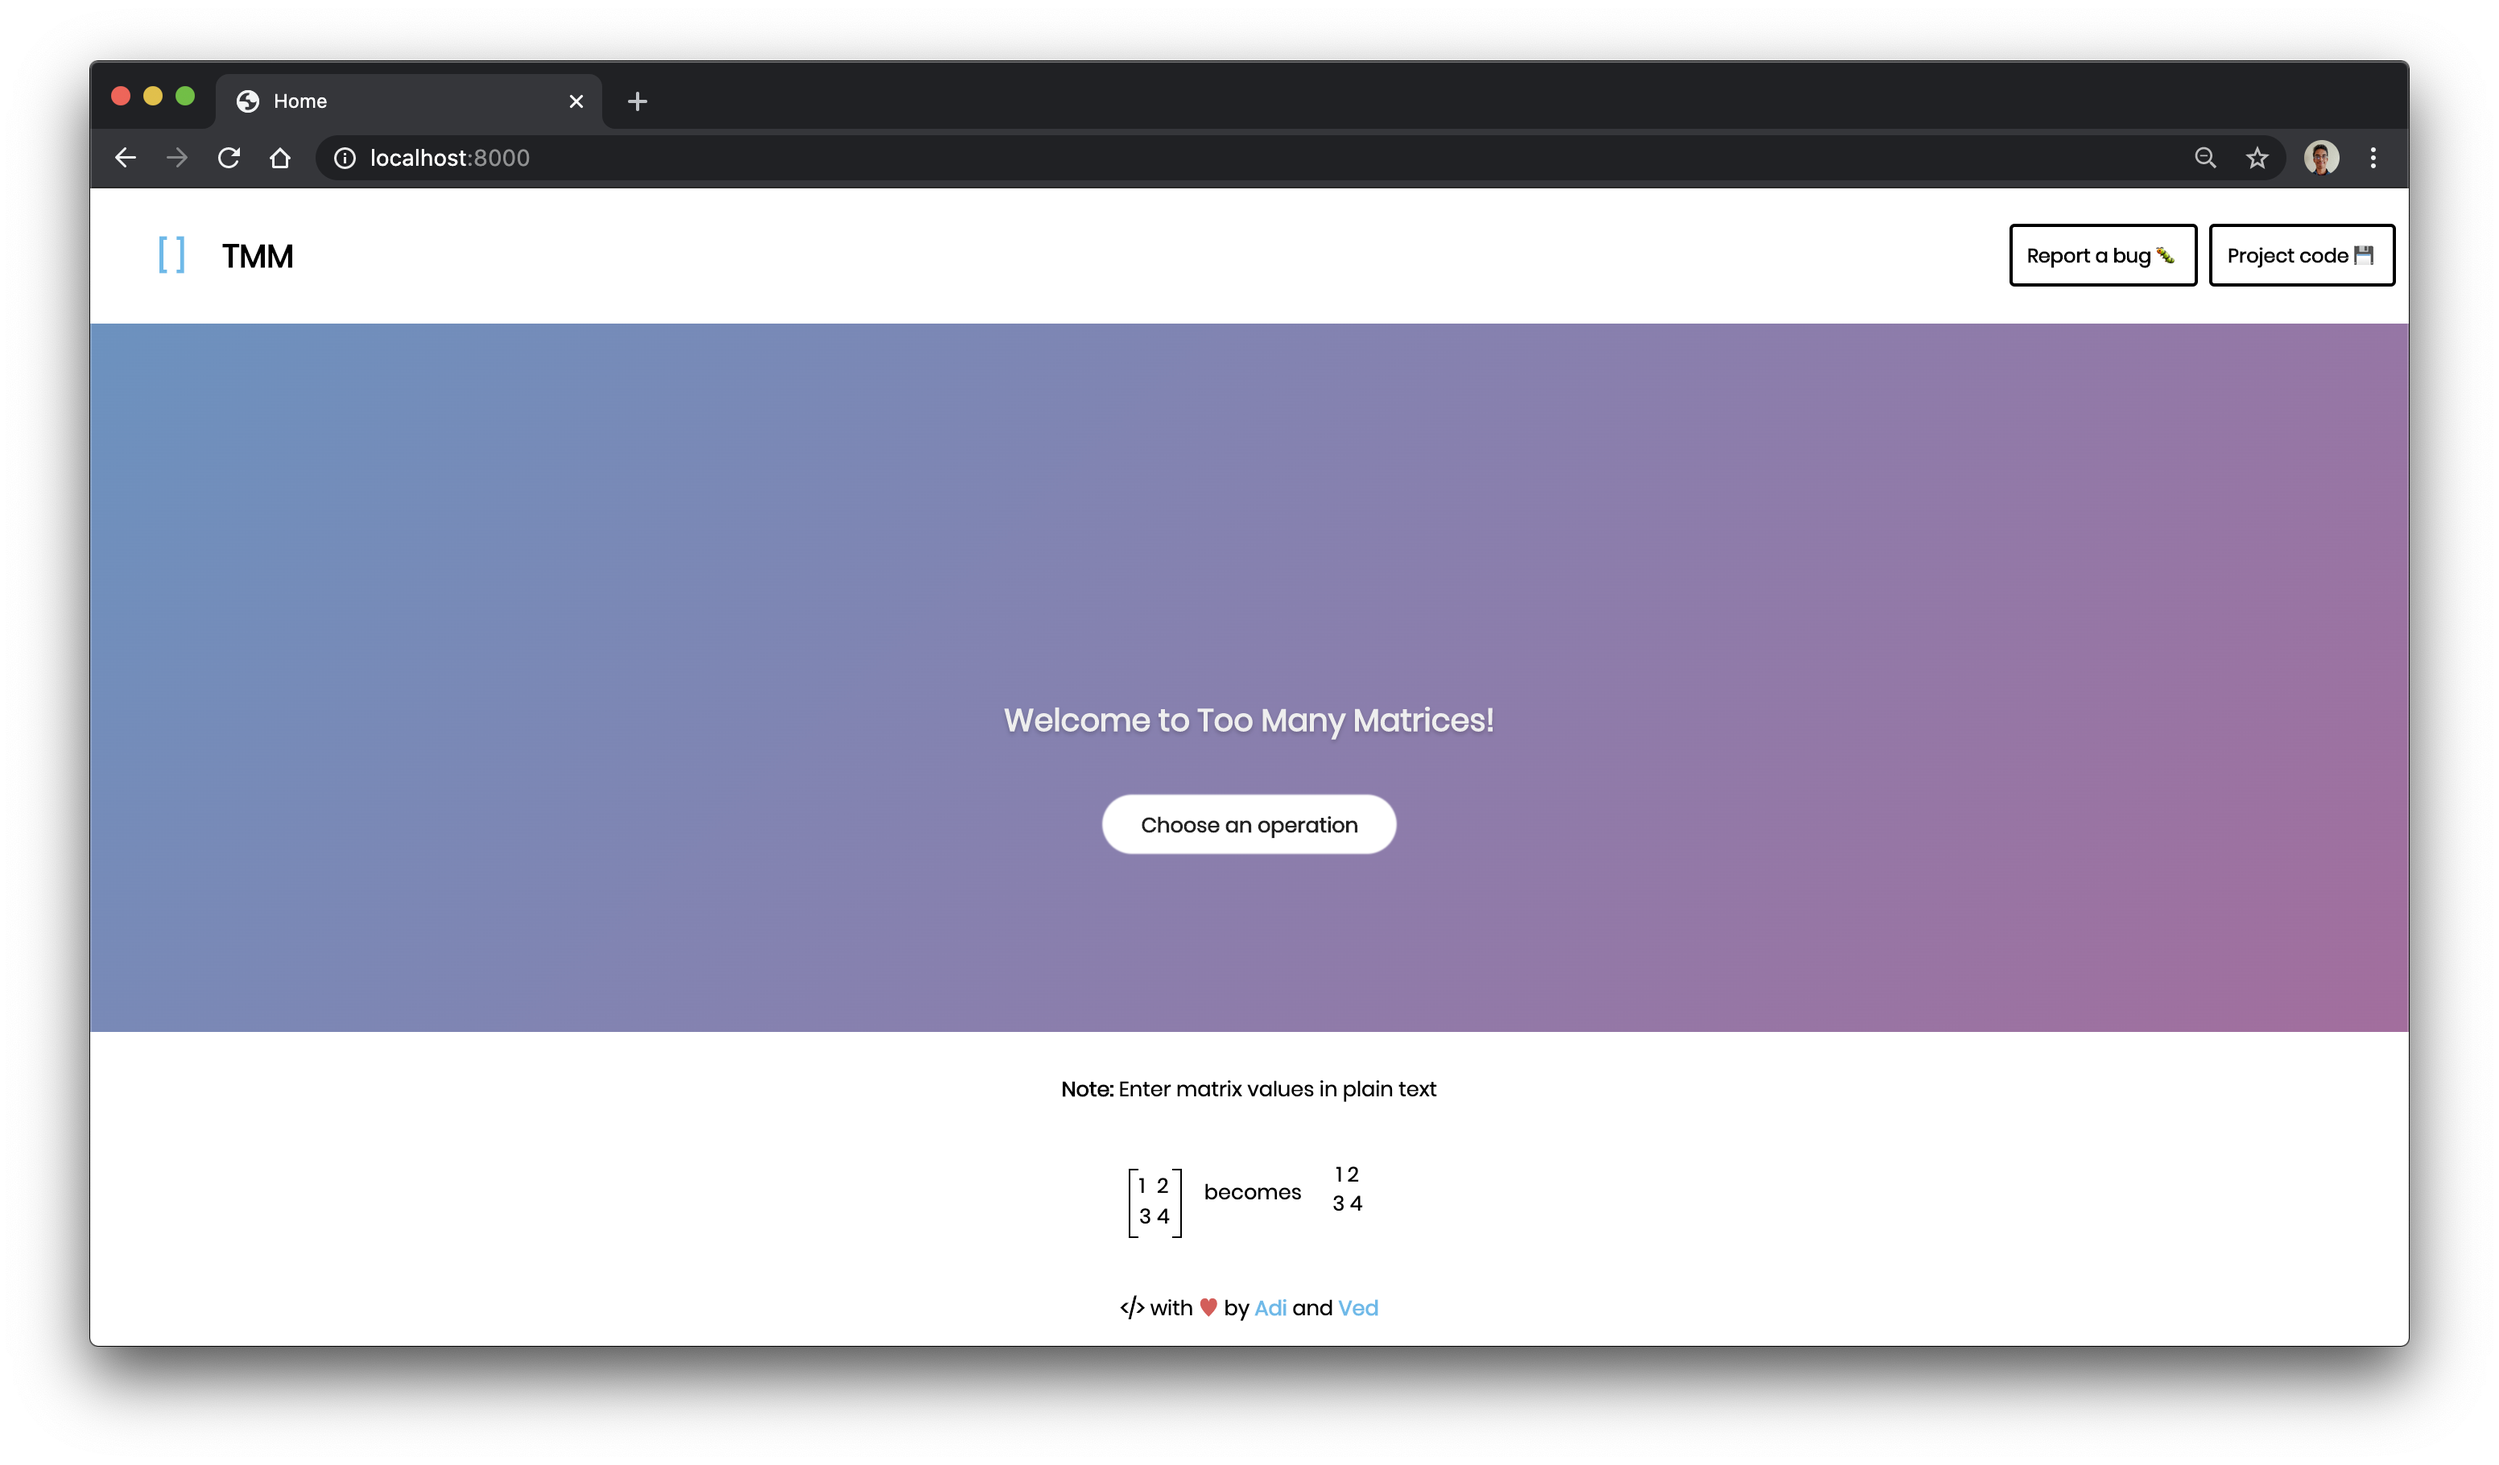
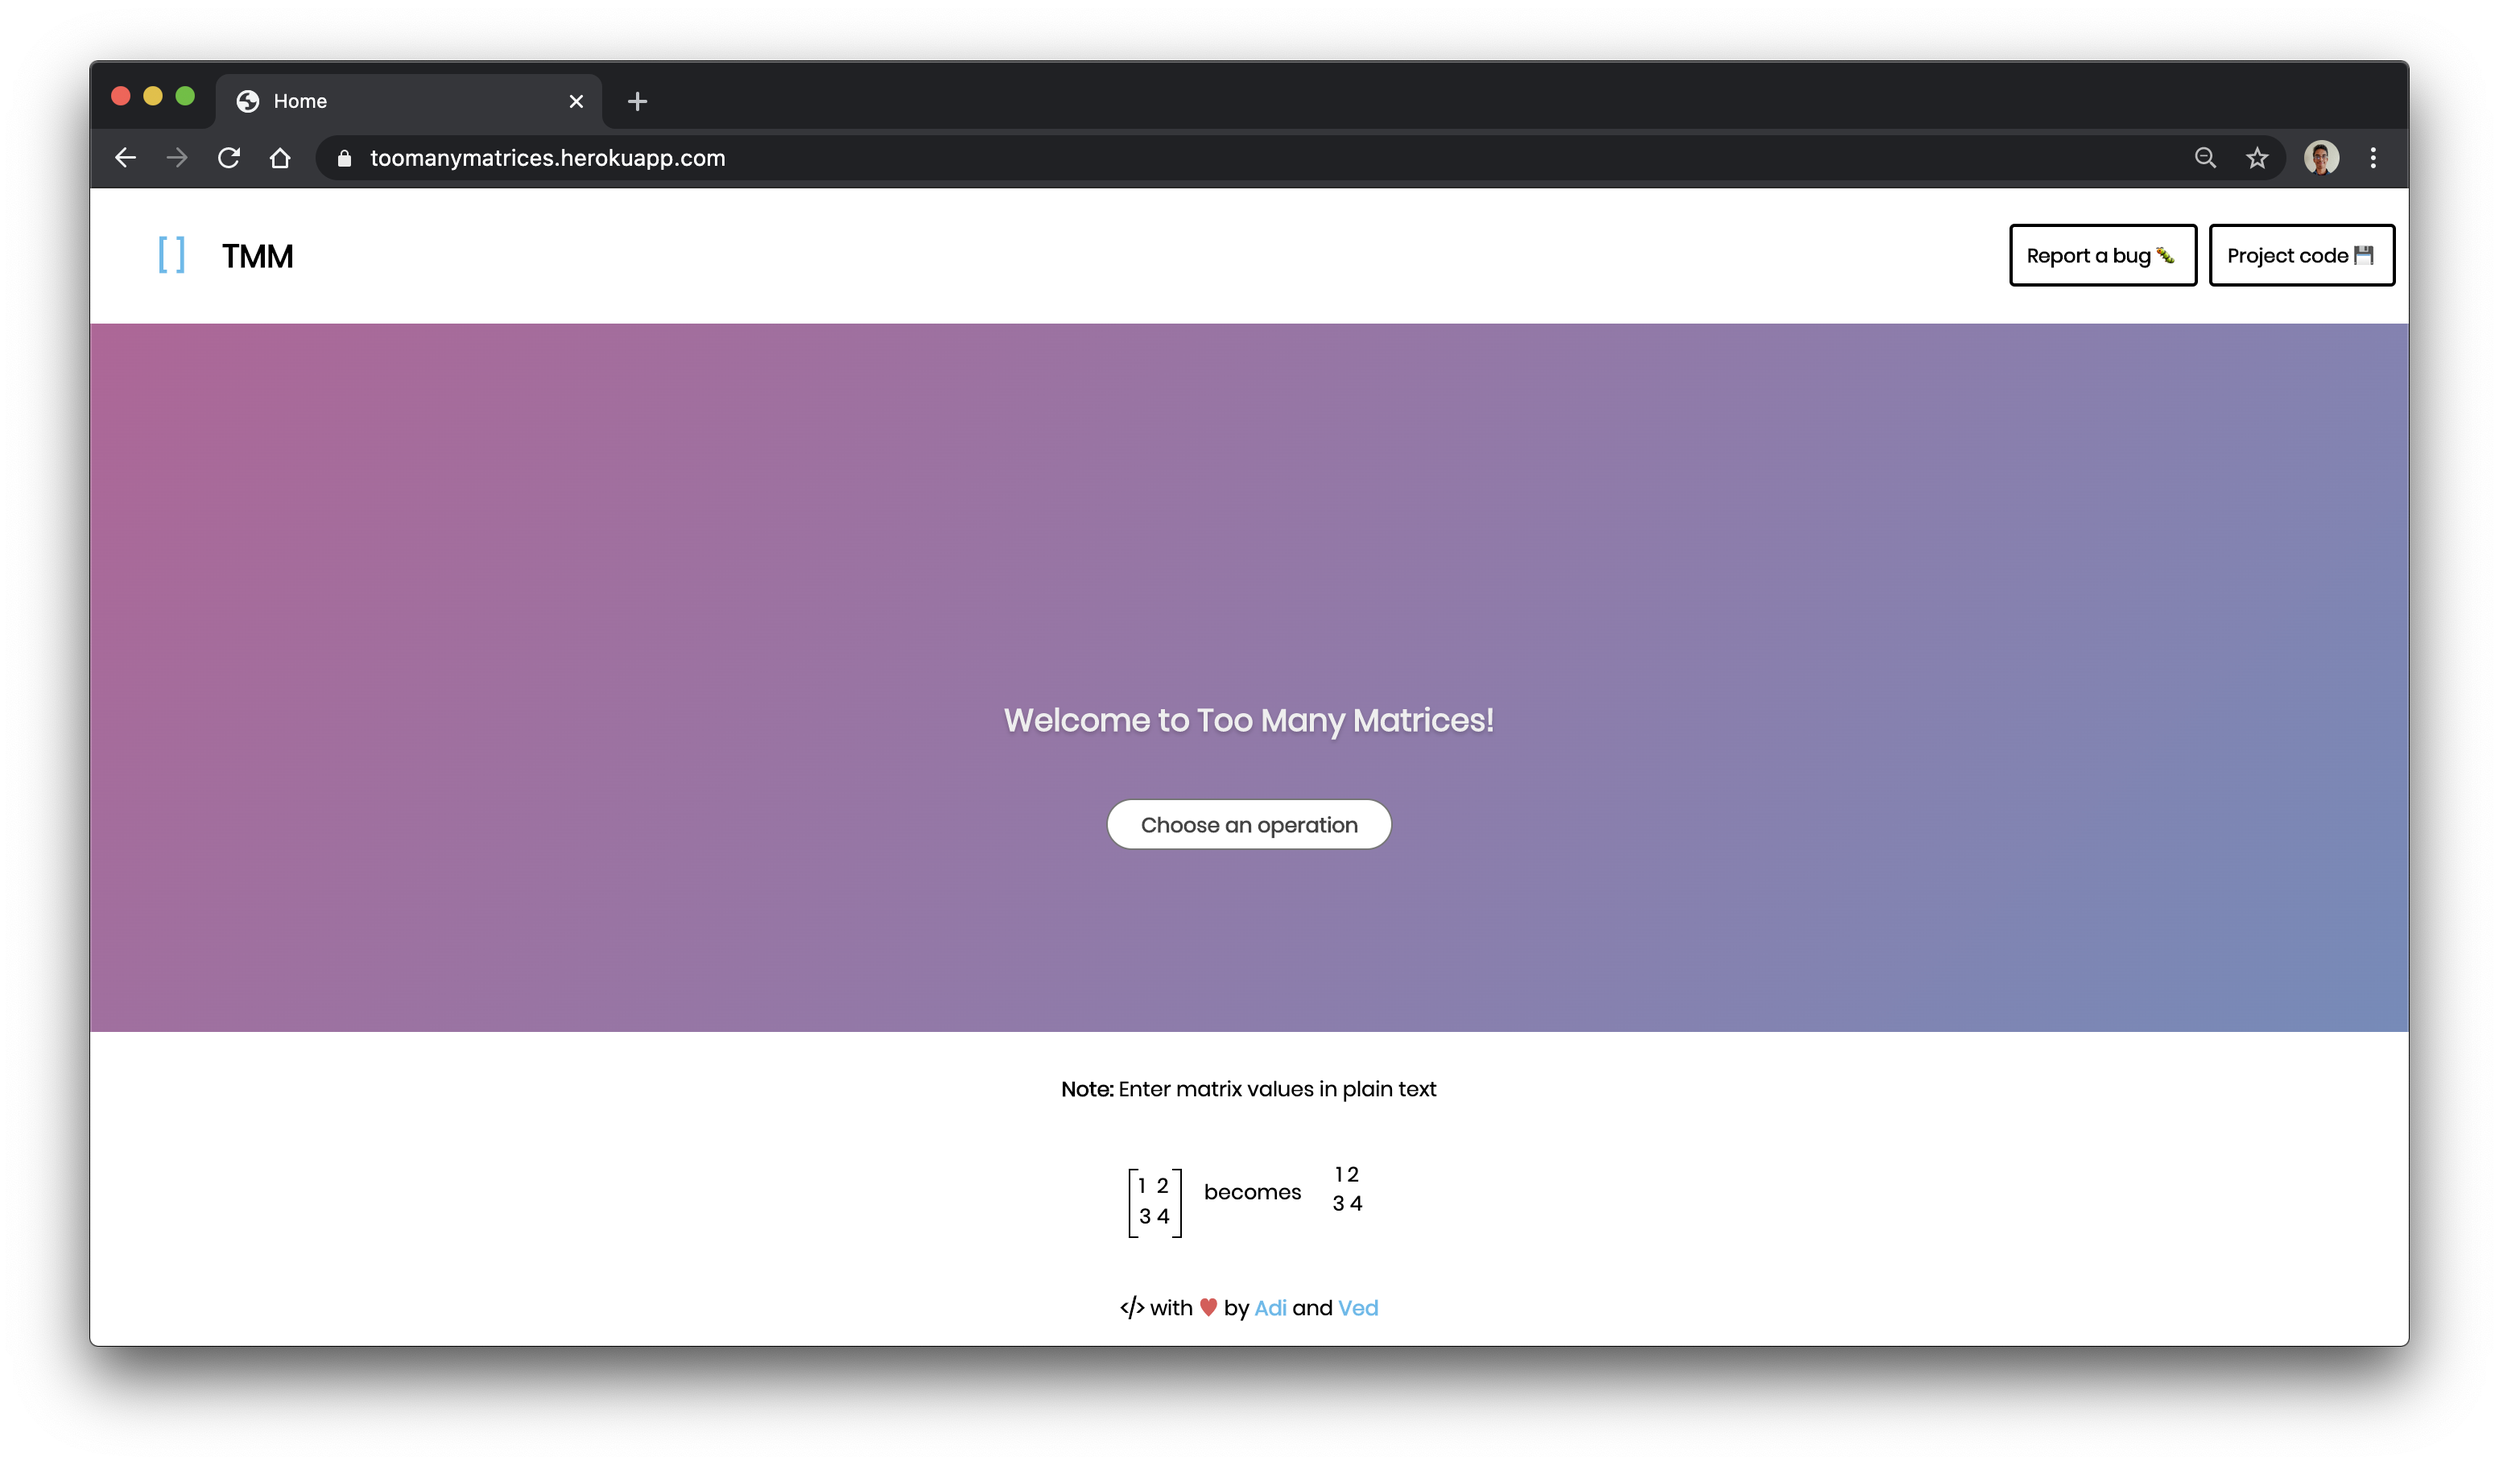
Final docs update for v1 (#21)
* Update README.md

* Updating images

diff --git a/README.md b/README.md
@@ -4,6 +4,8 @@ Have you ever looked at a particularly gnarly math problem and thought, "there i
 
 `TooManyMatrices` is a project in discrete mathematics where we ([@AdiUA](https://github.com/Adi-UA) and [@dev-ved30](https://github.com/dev-ved30)) build a website to solve all kinds of discrete math problems that are annoying to compute by hand or calculator.
 
+[Click here to go to the website](https://toomanymatrices.herokuapp.com/) or copy paste the following URL in your browser: https://toomanymatrices.herokuapp.com/
+
 ![](images/Homepage.png)
 
 ![](images/operation.png)
